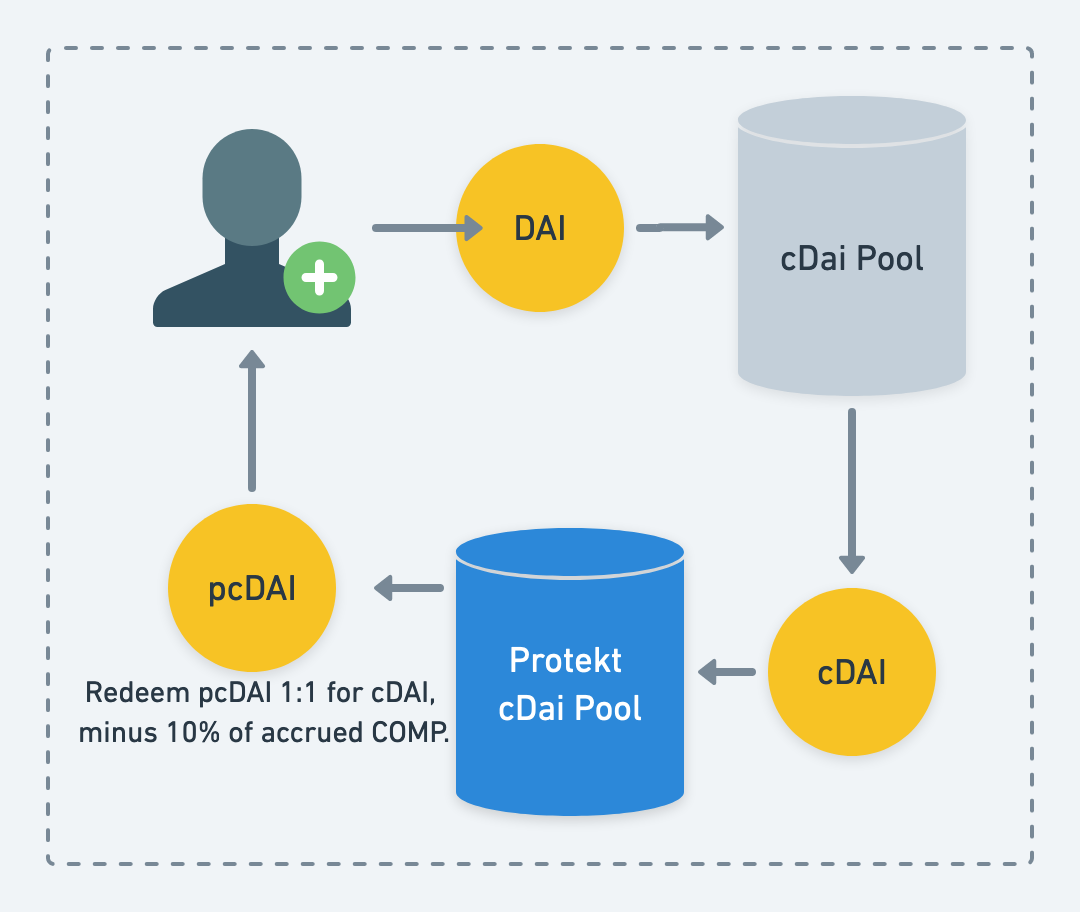
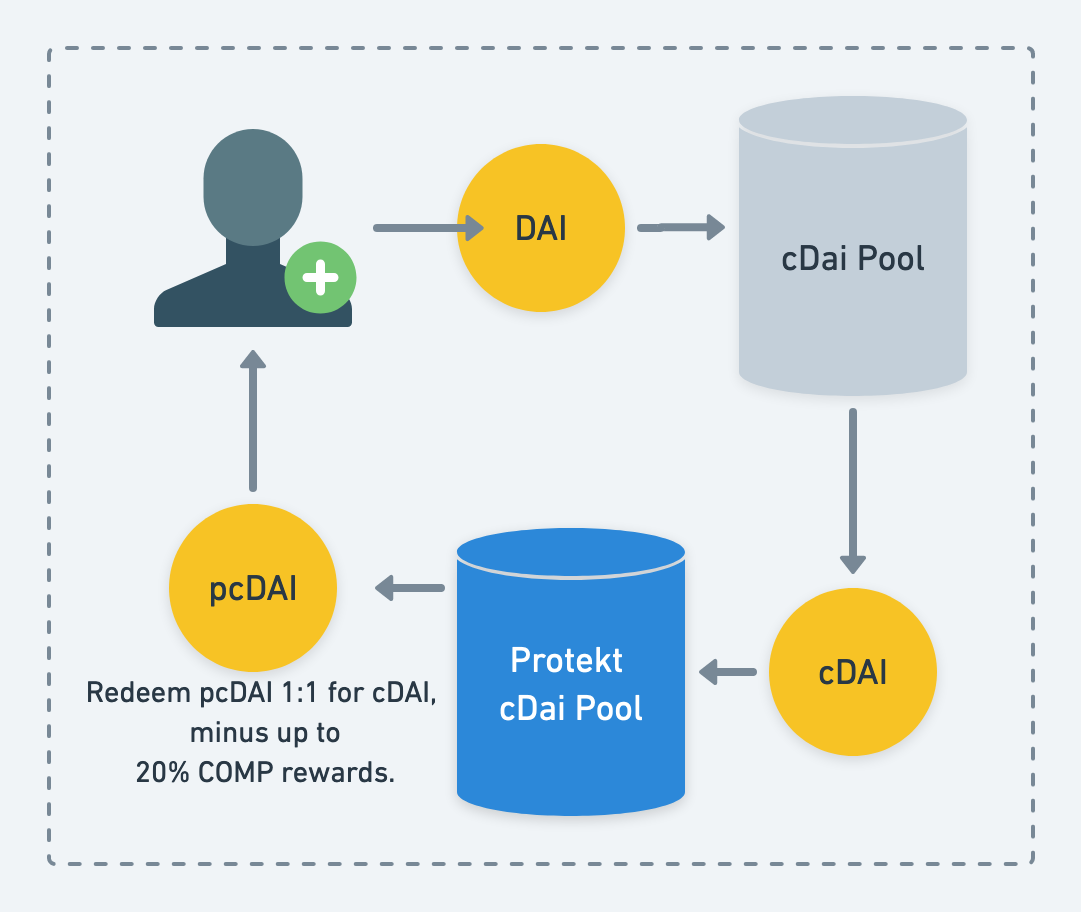
Updating image

diff --git a/docs/protektcDai.md b/docs/protektcDai.md
@@ -14,6 +14,8 @@ The following risks are still present and NOT covered by this contract:
 ## For Insurees
 Users can deposit cDai and get pTokens in return, and those pcDAI tokens can be redeemed for underlying cDai 1:1.
 
+![pToken Image](/img/pTokenDiagram.png)
+
 ### Fees
 Each pcDAI is the same as cDAI except up to 20% of the COMP rewards go to Shield Miners instead of being collected by the pcDAI holder. The exact fee will be set by the market, depending on the ratio of the Coverage pool to the Staking pool, but is capped at 20%.
 
